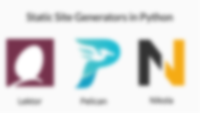
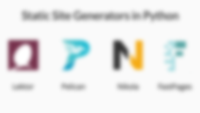
deploy: 7f6babe1838b3bb4c4089eeb2a3cdc7878054d60

diff --git a/sw.js b/sw.js
@@ -1,4 +1,4 @@
-const version = "a0d597e";
+const version = "99cac4f";
 const currentCacheName = `ELCWEB-${version}`;
 const filesToCache = [
     "/?v=7f403c9",
@@ -139,7 +139,7 @@ const filesToCache = [
     "/blog/images/jupyter-publishing/jupyter-publishing-headerimage-thumbnail.png?v=fab3b62",
     "/blog/images/jupyter-publishing/my-binder-thumbnail.png?v=7695d61",
     "/blog/images/jupyter-publishing/nbviewer-thumbnail.png?v=ce4ba2e",
-    "/blog/images/jupyter-publishing/static-site-generators-thumbnail.png?v=0b561c1",
+    "/blog/images/jupyter-publishing/static-site-generators-thumbnail.png?v=37b2873",
     "/blog/images/ode-python/ordinary-differential-equations-with-python-headerimage-thumbnail.png?v=fae4fd2",
     "/blog/images/online-lyrics/online-lyrics-headerimage-thumbnail.png?v=c1ae18d",
     "/blog/images/online-lyrics/tutorial-thumbnail.png?v=68afe83",
@@ -161,10 +161,10 @@ const filesToCache = [
     "/extra/browserconfig.xml?v=8dbb903",
     "/extra/sw_template.js?v=4cee959",
     "/favicon.ico?v=b758f8a",
-    "/feeds/all-en.atom.xml?v=85f428c",
+    "/feeds/all-en.atom.xml?v=3f943aa",
     "/feeds/all-es.atom.xml?v=1d8b0a5",
-    "/feeds/all.atom.xml?v=bc6d5f0",
-    "/feeds/ezequiel-leonardo-castano.atom.xml?v=77149ac",
+    "/feeds/all.atom.xml?v=9bcd85b",
+    "/feeds/ezequiel-leonardo-castano.atom.xml?v=108578e",
     "/feeds/ezequiel-leonardo-castano.rss.xml?v=53de1da",
     "/interactive-optimization/?v=b13d084",
     "/interactive-optimization/basic.js?v=cfe3bd3",
@@ -265,7 +265,7 @@ const filesToCache = [
     "/posts/git-guide-with-visual-interface/es/?v=ed4079a",
     "/posts/haskell-pattern-matching-in-python/?v=674c4d7",
     "/posts/juegos-biblicos/es/?v=bd7609b",
-    "/posts/jupyter-publishing/?v=5d8fbf6",
+    "/posts/jupyter-publishing/?v=6359853",
     "/posts/multi-floor-elevator-simulation-anylogic/?v=550b275",
     "/posts/online-lyrics-presentation-generator/?v=f450d8d",
     "/posts/online-lyrics-presentation-generator/es/?v=dfa15fa",
@@ -280,7 +280,7 @@ const filesToCache = [
     "/research/?v=a28eabb",
     "/safari-pinned-tab.svg?v=4686042",
     "/site.webmanifest?v=7ba4ab1",
-    "/sitemap.xml?v=c1fa18e",
+    "/sitemap.xml?v=172612d",
     "/tabubiblico/?v=c1e2276",
     "/tabubiblico/android-chrome-192x192.png?v=393bd36",
     "/tabubiblico/android-chrome-384x384.png?v=3d03b3d",

diff --git a/posts/jupyter-publishing/index.html b/posts/jupyter-publishing/index.html
@@ -356,7 +356,7 @@ one of the most popular ones being
 As well as other HTML-based approaches, If cell execution or
 interactive plots are necessary, this option is not suitable.</p>
 <h2 id="static-site-generator-integration"><a class="toclink" href="#static-site-generator-integration">Static Site Generator Integration</a></h2>
-<p><a href="/blog/images/jupyter-publishing/static-site-generators.png"><img alt="Static Site Generators" class="narrow b-lazy" data-src="/blog/images/jupyter-publishing/static-site-generators.png" src="https://elc.github.io/blog/images/jupyter-publishing/static-site-generators-thumbnail.png" width="722"></a></p>
+<p><a href="/blog/images/jupyter-publishing/static-site-generators.png"><img alt="Static Site Generators" class="narrow b-lazy" data-src="/blog/images/jupyter-publishing/static-site-generators.png" src="https://elc.github.io/blog/images/jupyter-publishing/static-site-generators-thumbnail.png" width="798"></a></p>
 <p>Nowadays, there is an increasing trend in popularity for Jamstack tools, i.e.
 Static Site Generators. That is why there are plenty of options available in
 the Python ecosystem (<a href="https://jamstack.org/generators/">50 at the time of this writting</a>){: target="_blank"}. 
